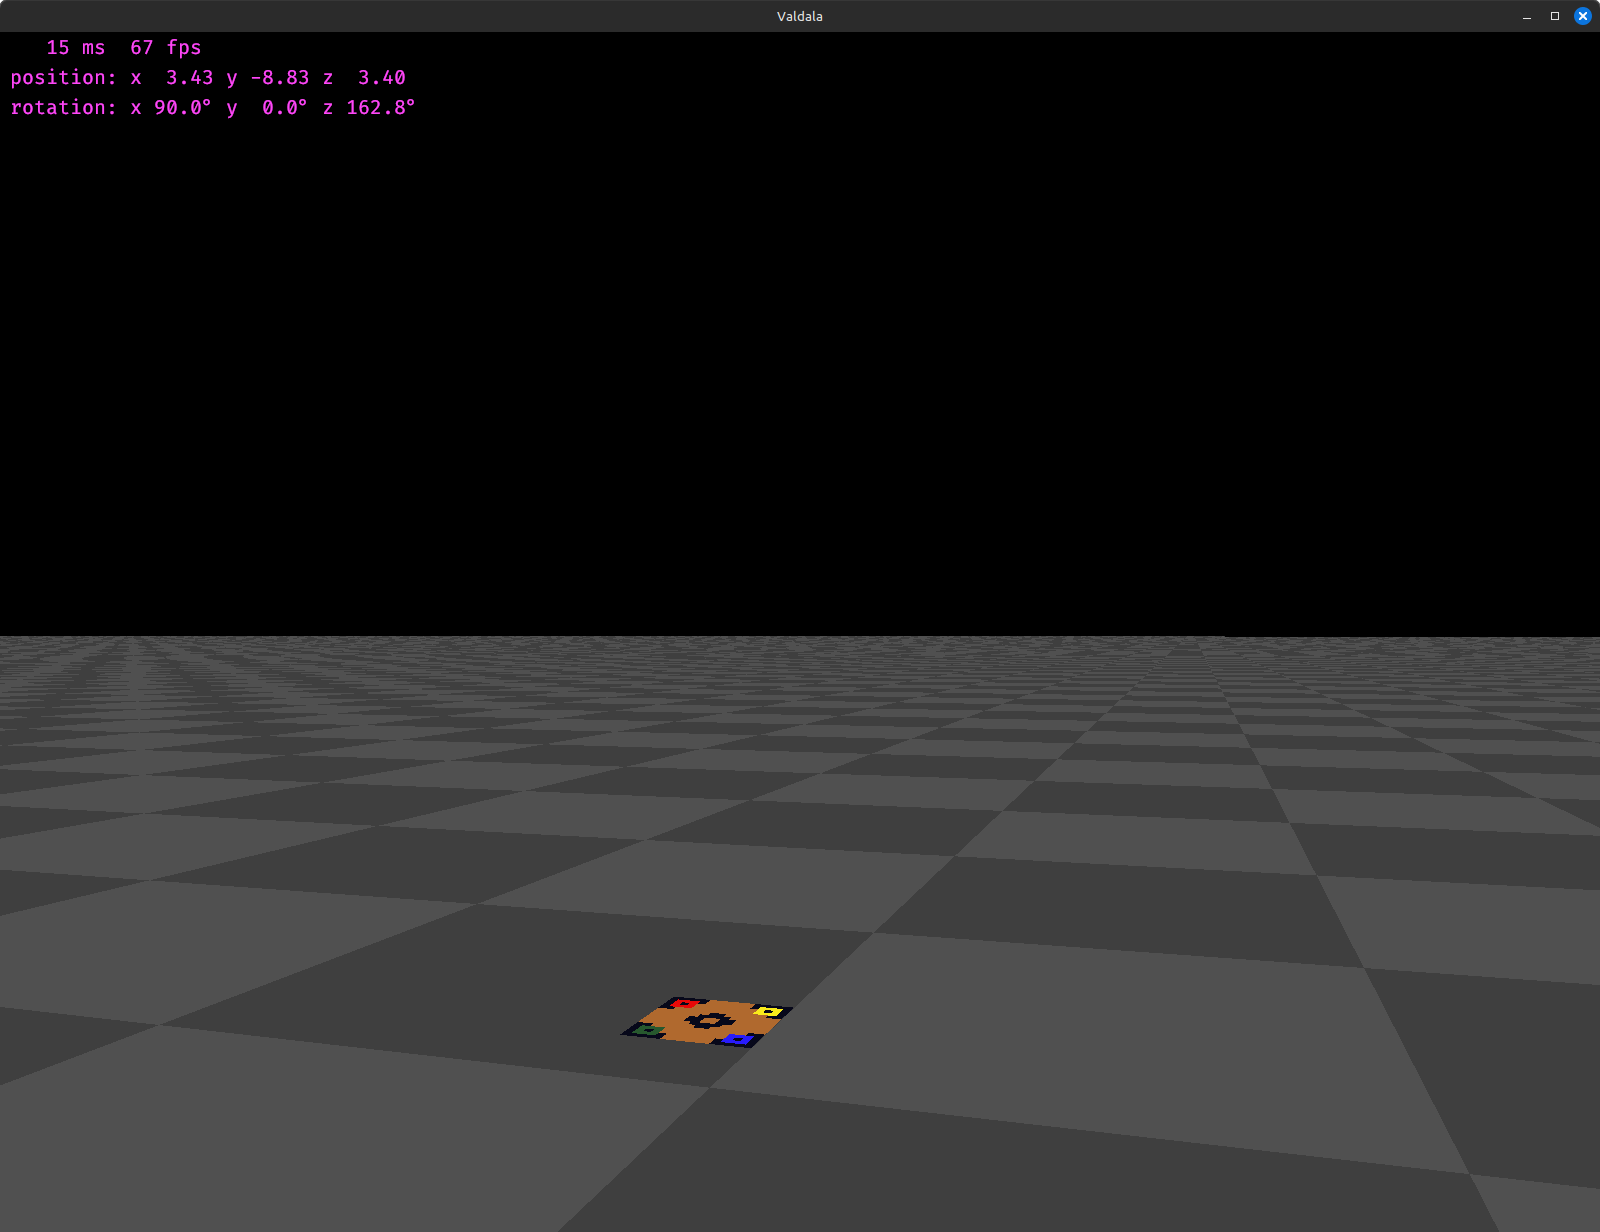
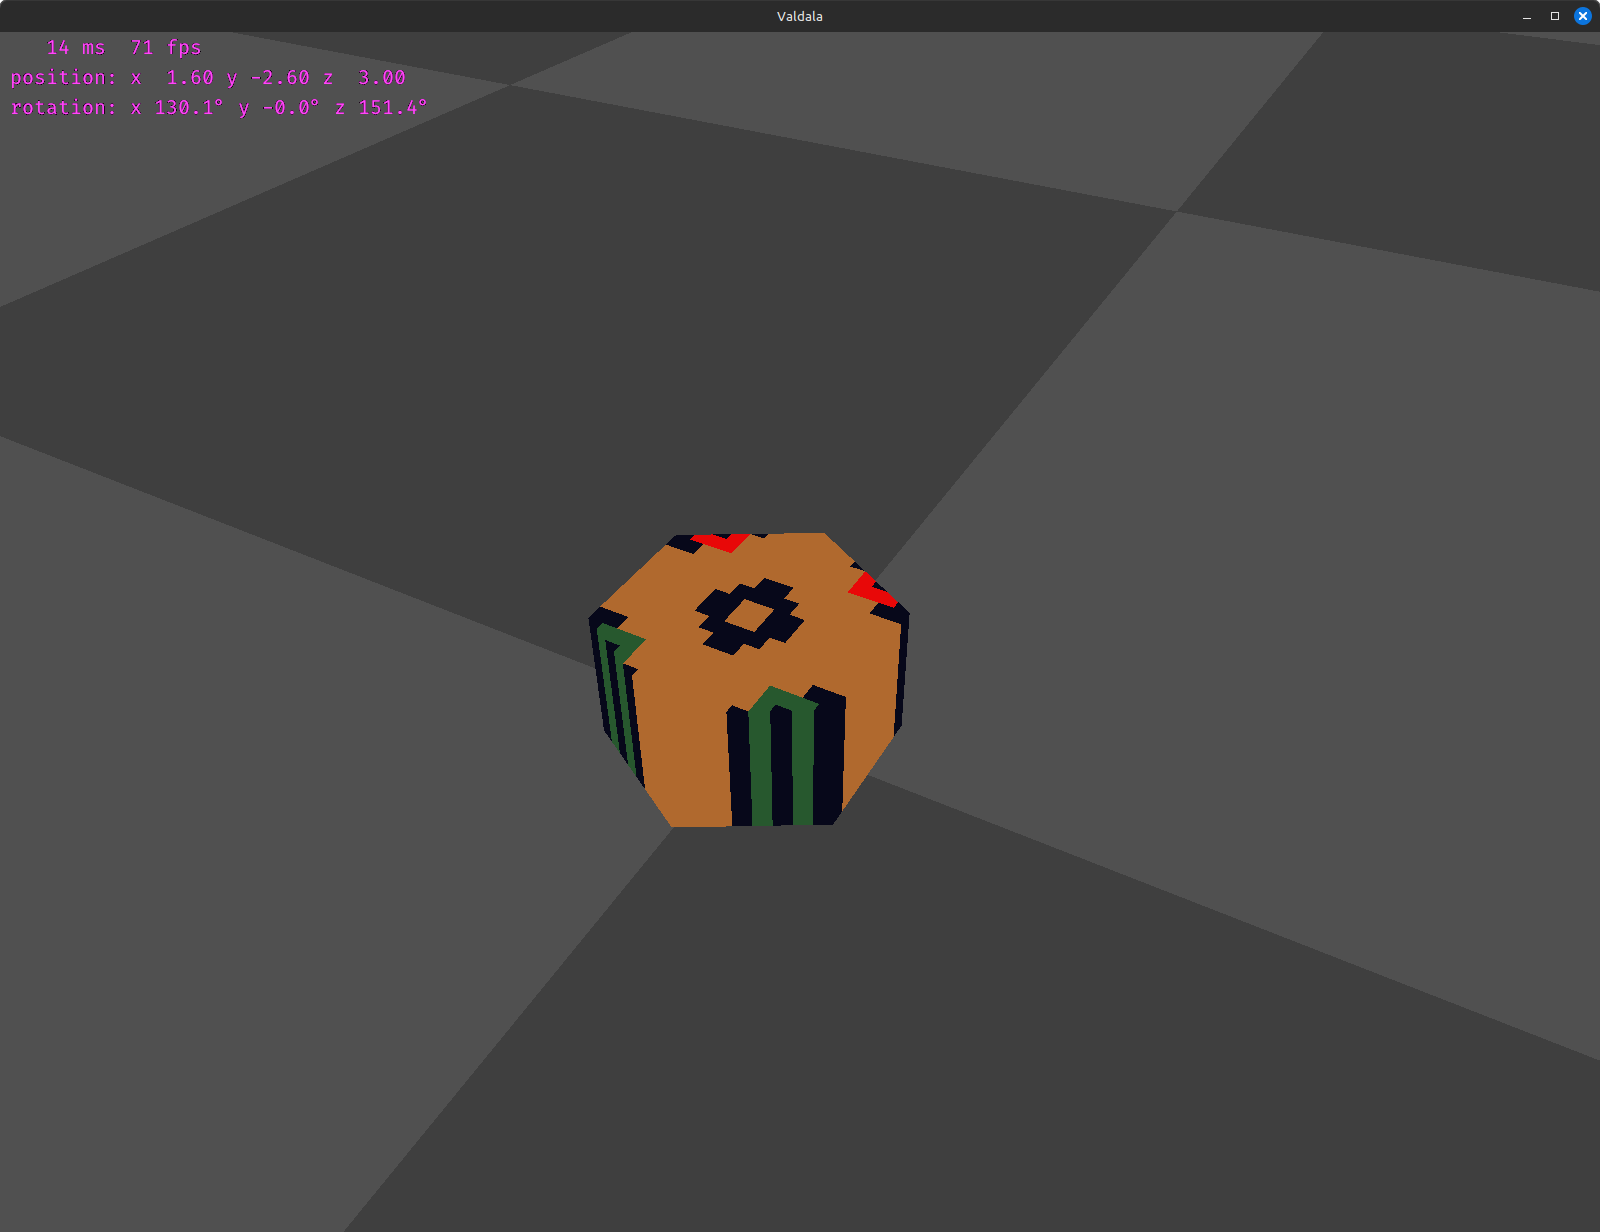
update progress

diff --git a/README.md b/README.md
@@ -116,6 +116,6 @@ Ask before adding new dependencies.
 
 ## Current State
 
-Thanks to @knivaagaffel we have a floor!
+Ugly hexagon time!
 
 ![screenshot](screenshot.png)
